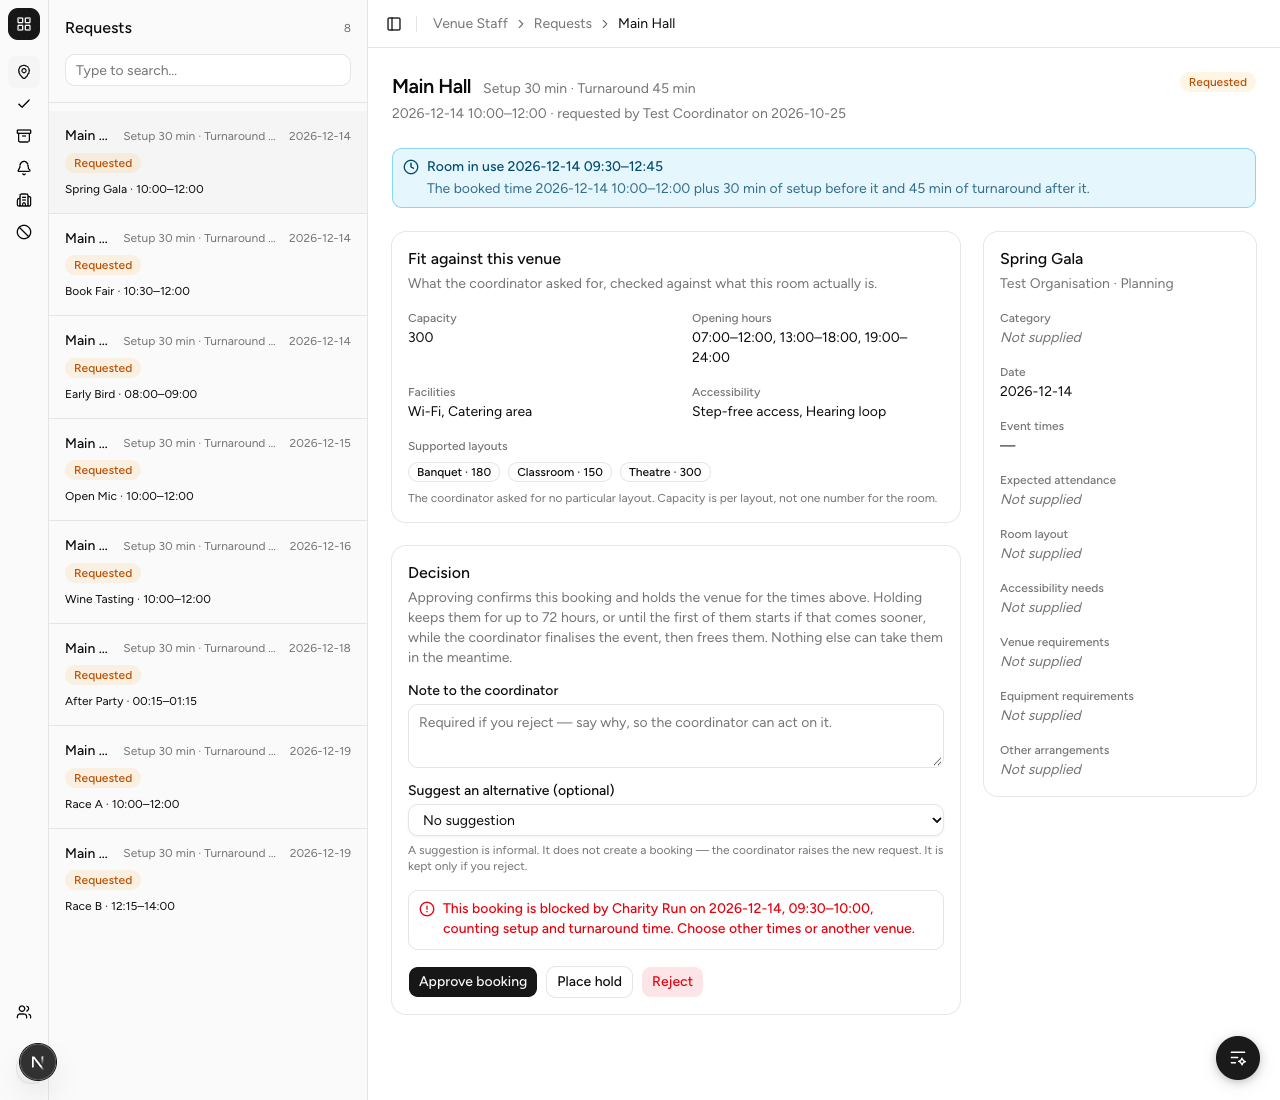
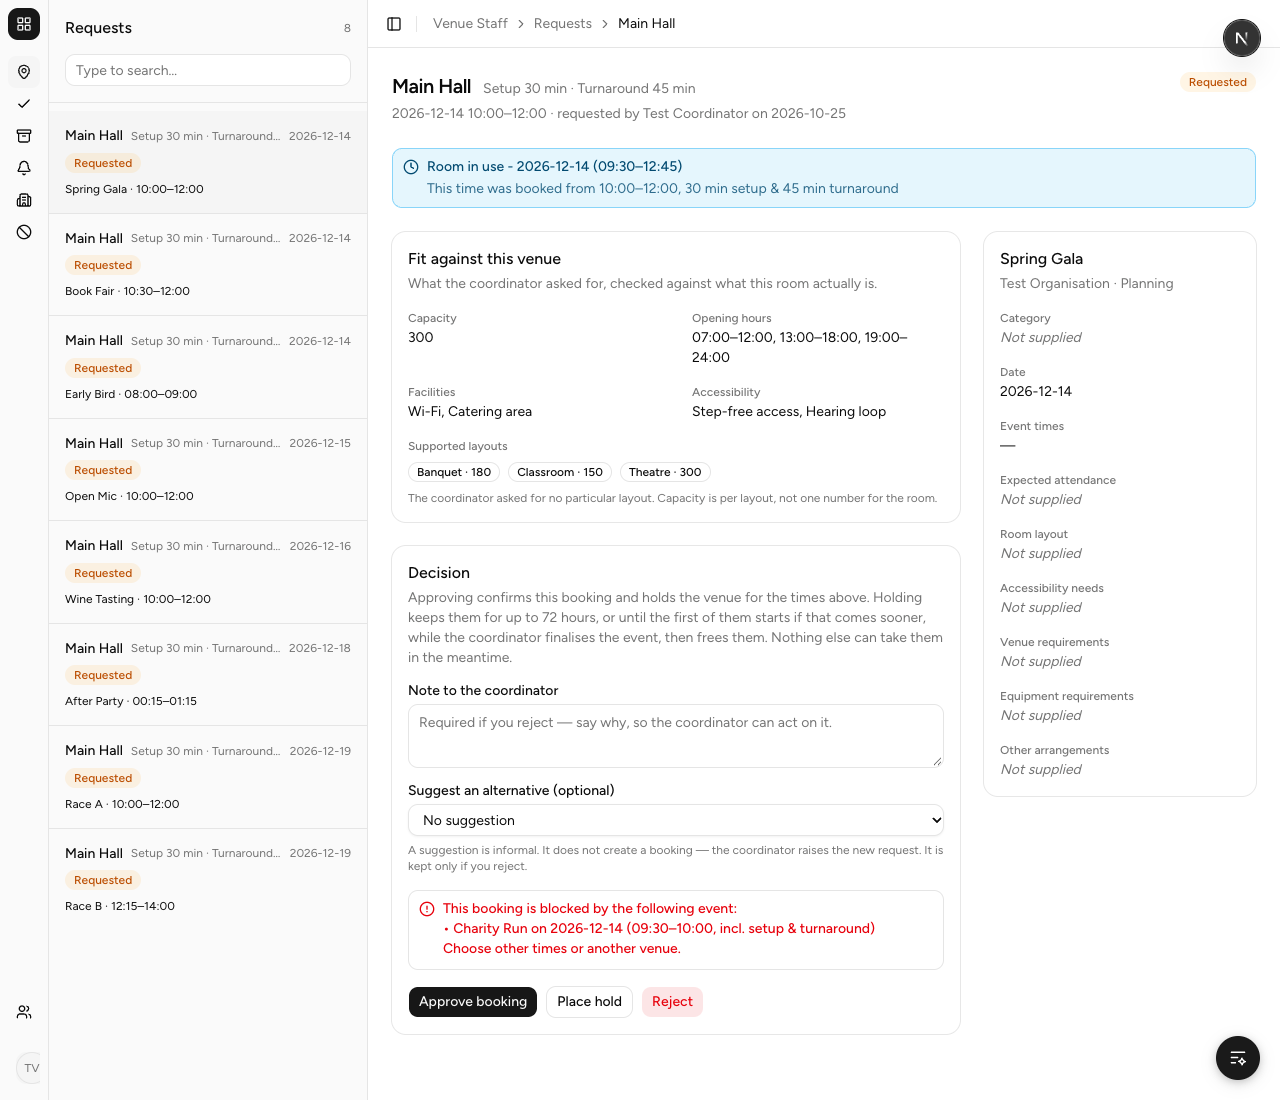
feat(app): list the events in the way, say when one is a hold and when it expires, and shorten the room-in-use box (SPM-19)
The refusal is now a bulleted list of events with their dates and times, a held venue
says it is temporarily reserved and until when, the room-in-use box reads shorter,
and the venue name keeps its place in the list beside the setup and turnaround note.

diff --git a/src/core/domain/padded-window.test.ts b/src/core/domain/padded-window.test.ts
@@ -134,7 +134,7 @@ describe("paddedClashes (SPM-19)", () => {
 
   it("AC1: names the other event and the overlap when a request's setup runs into its turnaround: 10:00 after 07:00-09:15 at Main Hall", () => {
     expect(paddedClashes([{ date: DAY, start: "10:00", end: "12:00" }], [charityRun], MAIN_HALL)).toEqual([
-      { eventName: "Charity Run", date: DAY, start: "09:30", end: "10:00" },
+      { eventName: "Charity Run", date: DAY, start: "09:30", end: "10:00", hold: null },
     ]);
   });
 
@@ -149,8 +149,19 @@ describe("paddedClashes (SPM-19)", () => {
   it("AC6: names each date a clash falls on when the windows run across midnight: a 00:15 request after a 22:00-24:00 Gala", () => {
     const lateEvent = { eventName: "Gala", times: [{ date: DAY, start: "22:00", end: "24:00" }] };
     expect(paddedClashes([{ date: "2026-12-15", start: "00:15", end: "01:15" }], [lateEvent], MAIN_HALL)).toEqual([
-      { eventName: "Gala", date: DAY, start: "23:45", end: "24:00" },
-      { eventName: "Gala", date: "2026-12-15", start: "00:00", end: "00:45" },
+      { eventName: "Gala", date: DAY, start: "23:45", end: "24:00", hold: null },
+      { eventName: "Gala", date: "2026-12-15", start: "00:00", end: "00:45", hold: null },
+    ]);
+  });
+
+  it("AC4: says when the blocking booking is a hold, and when the hold expires", () => {
+    const hold = {
+      eventName: "Quiz Night",
+      times: [{ date: DAY, start: "07:00", end: "09:15" }],
+      hold: { expiresAt: "2026-11-24T06:30:00.000Z" },
+    };
+    expect(paddedClashes([{ date: DAY, start: "10:00", end: "12:00" }], [hold], MAIN_HALL)).toEqual([
+      { eventName: "Quiz Night", date: DAY, start: "09:30", end: "10:00", hold: { expiresAt: "2026-11-24T06:30:00.000Z" } },
     ]);
   });
 
@@ -162,12 +173,60 @@ describe("paddedClashes (SPM-19)", () => {
   });
 });
 
-describe("VenuePaddedClashError (SPM-19 AC1)", () => {
-  it("says which event blocks the booking, naming the date and the times, whether the overlap is in the booked time or only in setup or turnaround", () => {
-    const error = new VenuePaddedClashError([{ eventName: "Charity Run", date: DAY, start: "09:30", end: "10:00" }]);
+describe("VenuePaddedClashError (SPM-19 AC1, AC4)", () => {
+  const SG_EXPIRY = "2026-11-24T06:30:00.000Z"; // 2026-11-24 14:30 in Singapore
+
+  it("lists the event that blocks the booking, with its date and times, whether the overlap is in the booked time or only in setup or turnaround", () => {
+    const error = new VenuePaddedClashError([
+      { eventName: "Charity Run", date: DAY, start: "09:30", end: "10:00", hold: null },
+    ]);
 
     expect(error.message).toBe(
-      "This booking is blocked by Charity Run on 2026-12-14, 09:30–10:00, counting setup and turnaround time. Choose other times or another venue.",
+      [
+        "This booking is blocked by the following event:",
+        "• Charity Run on 2026-12-14 (09:30–10:00, incl. setup & turnaround)",
+        "Choose other times or another venue.",
+      ].join("\n"),
     );
+  });
+
+  it("lists each date an event is in the way on its own line, as when a turnaround runs past midnight", () => {
+    const error = new VenuePaddedClashError([
+      { eventName: "Night Gala", date: "2026-12-17", start: "23:45", end: "24:00", hold: null },
+      { eventName: "Night Gala", date: "2026-12-18", start: "00:00", end: "00:45", hold: null },
+    ]);
+
+    expect(error.message).toBe(
+      [
+        "This booking is blocked by the following events:",
+        "• Night Gala on 2026-12-17 (23:45–24:00, incl. setup & turnaround)",
+        "• Night Gala on 2026-12-18 (00:00–00:45, incl. setup & turnaround)",
+        "Choose other times or another venue.",
+      ].join("\n"),
+    );
+  });
+
+  it("says plainly that a held venue is temporarily reserved, and when the hold expires (Singapore time)", () => {
+    const error = new VenuePaddedClashError([
+      { eventName: "Quiz Night", date: "2026-12-15", start: "09:30", end: "10:00", hold: { expiresAt: SG_EXPIRY } },
+    ]);
+
+    expect(error.message).toBe(
+      [
+        "This booking is blocked by the following event:",
+        "• Quiz Night on 2026-12-15 (09:30–10:00, incl. setup & turnaround): already temporarily reserved (held), the hold expires on 2026-11-24 14:30 (Singapore time)",
+        "Choose other times or another venue.",
+      ].join("\n"),
+    );
+  });
+
+  it("lists a hold and a confirmed booking together", () => {
+    const error = new VenuePaddedClashError([
+      { eventName: "Charity Run", date: DAY, start: "09:30", end: "10:00", hold: null },
+      { eventName: "Quiz Night", date: DAY, start: "12:00", end: "12:45", hold: { expiresAt: SG_EXPIRY } },
+    ]);
+
+    expect(error.message).toContain("• Charity Run on 2026-12-14 (09:30–10:00, incl. setup & turnaround)\n");
+    expect(error.message).toContain("• Quiz Night on 2026-12-14 (12:00–12:45, incl. setup & turnaround): already temporarily reserved (held)");
   });
 });

diff --git a/src/core/domain/errors.ts b/src/core/domain/errors.ts
@@ -442,6 +442,40 @@ export class BookingRoomLayoutNotChangeableError extends DomainError {
   }
 }
 
+type Clash = TimeOnDate & {
+  readonly eventName: string;
+  readonly hold: { readonly expiresAt: string | null } | null;
+};
+
+/**
+ * What Venue Staff read: a list with one line for each date an event is in the way on, naming the
+ * times. A held venue says so, and when the hold expires.
+ */
+function lines(clashes: readonly Clash[]): string[] {
+  return clashes.map(({ eventName, date, start, end, hold }) => {
+    const base = `• ${eventName} on ${date} (${start}–${end}, incl. setup & turnaround)`;
+    if (hold === null) return base;
+    const expires =
+      hold.expiresAt === null ? "" : `, the hold expires on ${singaporeTime(hold.expiresAt)} (Singapore time)`;
+    return `${base}: already temporarily reserved (held)${expires}`;
+  });
+}
+
+/** An instant as `2026-11-24 14:30` in Singapore time, whatever zone the server runs in. */
+function singaporeTime(iso: string): string {
+  const parts = new Intl.DateTimeFormat("en-CA", {
+    timeZone: "Asia/Singapore",
+    year: "numeric",
+    month: "2-digit",
+    day: "2-digit",
+    hour: "2-digit",
+    minute: "2-digit",
+    hourCycle: "h23",
+  }).formatToParts(new Date(iso));
+  const part = (type: string) => parts.find((each) => each.type === type)?.value ?? "";
+  return `${part("year")}-${part("month")}-${part("day")} ${part("hour")}:${part("minute")}`;
+}
+
 /** A date with a start and end time, as the booking refusals name them. */
 type TimeOnDate = { readonly date: string; readonly start: string; readonly end: string };
 
@@ -469,11 +503,21 @@ export class VenueSlotUnavailableError extends DomainError {
 export class VenuePaddedClashError extends DomainError {
   readonly code = "venue_padded_clash";
 
-  constructor(readonly clashes: ReadonlyArray<TimeOnDate & { readonly eventName: string }>) {
+  constructor(
+    readonly clashes: ReadonlyArray<
+      TimeOnDate & {
+        readonly eventName: string;
+        /** Set when the booking in the way is a Tentative Hold; null for a Confirmed one. */
+        readonly hold: { readonly expiresAt: string | null } | null;
+      }
+    >,
+  ) {
     super(
-      `This booking is blocked by ${clashes
-        .map(({ eventName, date, start, end }) => `${eventName} on ${date}, ${start}–${end}`)
-        .join("; ")}, counting setup and turnaround time. Choose other times or another venue.`,
+      [
+        `This booking is blocked by the following ${clashes.length === 1 ? "event" : "events"}:`,
+        ...lines(clashes),
+        "Choose other times or another venue.",
+      ].join("\n"),
     );
   }
 }

diff --git a/src/core/domain/padded-window.ts b/src/core/domain/padded-window.ts
@@ -52,6 +52,8 @@ export interface PaddedClash {
   readonly date: string;
   readonly start: string;
   readonly end: string;
+  /** Set when the booking in the way is a Tentative Hold: when it expires (null: no expiry). */
+  readonly hold: { readonly expiresAt: string | null } | null;
 }
 
 /**
@@ -62,18 +64,25 @@ export interface PaddedClash {
  */
 export function paddedClashes(
   requested: readonly TimeRangeOnDate[],
-  others: ReadonlyArray<{ readonly eventName: string; readonly times: readonly TimeRangeOnDate[] }>,
+  others: ReadonlyArray<{
+    readonly eventName: string;
+    readonly times: readonly TimeRangeOnDate[];
+    /** Set for a Tentative Hold, so the refusal can say so and when it expires. */
+    readonly hold?: { readonly expiresAt: string | null };
+  }>,
   buffers: Buffers,
 ): PaddedClash[] {
   const mine = requested.flatMap((time) => paddedWindows(time, buffers));
   return others
-    .flatMap(({ eventName, times }) =>
+    .flatMap(({ eventName, times, hold }) =>
       times.flatMap((time) => paddedWindows(time, buffers)).flatMap((theirs) =>
         mine.flatMap((window) => {
           if (window.date !== theirs.date) return [];
           const start = Math.max(minutes(window).start, minutes(theirs).start);
           const end = Math.min(minutes(window).end, minutes(theirs).end);
-          return start < end ? [{ eventName, date: window.date, start: fromMinutes(start), end: fromMinutes(end) }] : [];
+          return start < end
+            ? [{ eventName, date: window.date, start: fromMinutes(start), end: fromMinutes(end), hold: hold ?? null }]
+            : [];
         }),
       ),
     )

diff --git a/src/core/use-cases/decide-booking-request.test.ts b/src/core/use-cases/decide-booking-request.test.ts
@@ -686,7 +686,7 @@ describe("DecideBookingRequestUseCase, setup and turnaround (SPM-19)", () => {
 
     expect(error).toBeInstanceOf(VenuePaddedClashError);
     expect((error as VenuePaddedClashError).clashes).toEqual([
-      { eventName: "Charity Run", date: DAY, start: "09:30", end: "10:00" },
+      { eventName: "Charity Run", date: DAY, start: "09:30", end: "10:00", hold: null },
     ]);
     expect(reviews.all()[0]?.status).toBe("Requested");
   });
@@ -714,15 +714,18 @@ describe("DecideBookingRequestUseCase, setup and turnaround (SPM-19)", () => {
     expect(reviews.all()[0]?.status).toBe("Requested");
   });
 
-  it("AC4: a Tentative Hold in the way is padded like a Confirmed booking", async () => {
+  it("AC4: a Tentative Hold in the way is padded like a Confirmed booking, and the refusal says it is held", async () => {
     const { useCase } = atMainHall(
       { status: "Tentative Hold", start: "07:00", end: "09:15" },
       { start: "10:00", end: "12:00" },
     );
 
-    await expect(
-      useCase.execute({ bookingId: "b1", userAccountId: STAFF, decision: "approve" }),
-    ).rejects.toBeInstanceOf(VenuePaddedClashError);
+    const error = await useCase
+      .execute({ bookingId: "b1", userAccountId: STAFF, decision: "approve" })
+      .catch((e: unknown) => e);
+
+    expect(error).toBeInstanceOf(VenuePaddedClashError);
+    expect((error as VenuePaddedClashError).message).toContain("• Charity Run on 2026-12-14 (09:30–10:00, incl. setup & turnaround): already temporarily reserved (held)");
   });
 
   it("AC5: a Rejected booking in the way does not block", async () => {

diff --git a/src/adapters/outbound/supabase/supabase-booking-review-repository.test.ts b/src/adapters/outbound/supabase/supabase-booking-review-repository.test.ts
@@ -258,8 +258,30 @@ describe("SupabaseBookingReviewRepository, padded clashes (SPM-19)", () => {
 
     expect(error).toBeInstanceOf(VenuePaddedClashError);
     expect((error as VenuePaddedClashError).clashes).toEqual([
-      { eventName: "Charity Run", date: "2026-12-14", start: "09:30", end: "10:00" },
+      { eventName: "Charity Run", date: "2026-12-14", start: "09:30", end: "10:00", hold: null },
     ]);
+  });
+
+  it("AC4: carries the hold, and when it expires, when the booking in the way is a Tentative Hold", async () => {
+    const { client } = fakeClient({
+      venue_staff_decide_booking: {
+        data: null,
+        error: {
+          code: "CS082",
+          message: "Venue 5 has another booking within this booking's setup or turnaround time",
+          details: JSON.stringify([
+            { event: "Quiz Night", date: "2026-12-15", start: "09:30", end: "10:00", holdExpiresAt: "2026-11-24T06:30:00+00:00" },
+          ]),
+        },
+      },
+    });
+
+    const error = await new SupabaseBookingReviewRepository(client).decide(APPROVED).catch((e: unknown) => e);
+
+    expect((error as VenuePaddedClashError).clashes).toEqual([
+      { eventName: "Quiz Night", date: "2026-12-15", start: "09:30", end: "10:00", hold: { expiresAt: "2026-11-24T06:30:00+00:00" } },
+    ]);
+    expect((error as VenuePaddedClashError).message).toContain("already temporarily reserved (held), the hold expires on 2026-11-24 14:30 (Singapore time)");
   });
 
   it("AC3: maps it the same way when placing a hold", async () => {

diff --git a/src/app/staff/slot-label.test.ts b/src/app/staff/slot-label.test.ts
@@ -18,7 +18,7 @@ describe("roomInUse (SPM-19)", () => {
 
   it("names the time the room is used with setup and turnaround, and each value, for Main Hall 30 and 45", () => {
     expect(roomInUse(times, { setupMinutes: 30, turnaroundMinutes: 45 })).toEqual({
-      inUse: "2026-12-14 09:30–12:45",
+      windows: [{ date: "2026-12-14", start: "09:30", end: "12:45" }],
       setup: 30,
       turnaround: 45,
     });
@@ -26,8 +26,11 @@ describe("roomInUse (SPM-19)", () => {
 
   it("splits a window that runs past midnight by date", () => {
     expect(
-      roomInUse([{ date: "2026-12-17", start: "22:00", end: "24:00" }], { setupMinutes: 30, turnaroundMinutes: 45 })?.inUse,
-    ).toBe("2026-12-17 21:30–24:00, 2026-12-18 00:00–00:45");
+      roomInUse([{ date: "2026-12-17", start: "22:00", end: "24:00" }], { setupMinutes: 30, turnaroundMinutes: 45 })?.windows,
+    ).toEqual([
+      { date: "2026-12-17", start: "21:30", end: "24:00" },
+      { date: "2026-12-18", start: "00:00", end: "00:45" },
+    ]);
   });
 
   it("says nothing for a venue with none set, or 0 and 0, since nothing is added", () => {

diff --git a/src/app/staff/slot-label.ts b/src/app/staff/slot-label.ts
@@ -18,17 +18,17 @@ export function formatTimes(times: readonly TimeRangeOnDate[]): string {
 
 /**
  * SPM-19: the time a booking really takes from its venue, setup and turnaround included, e.g.
- * `{ inUse: "2026-12-14 09:30–12:45", setup: 30, turnaround: 45 }`. Null when the venue adds
+ * `{ windows: [{ date: "2026-12-14", start: "09:30", end: "12:45" }], setup: 30, turnaround: 45 }`. Null when the venue adds
  * nothing (none set, or 0 and 0), so there is nothing more to say.
  */
 export function roomInUse(
   times: readonly TimeRangeOnDate[],
   venue: Partial<VenueBuffers> | null,
-): { readonly inUse: string; readonly setup: number; readonly turnaround: number } | null {
+): { readonly windows: TimeRangeOnDate[]; readonly setup: number; readonly turnaround: number } | null {
   const { setup, turnaround } = bufferMinutes(venue ?? {});
   if (setup === 0 && turnaround === 0) return null;
   const windows = times.flatMap((time) => paddedWindows(time, { setup, turnaround }));
-  return { inUse: formatTimes(windows), setup, turnaround };
+  return { windows, setup, turnaround };
 }
 
 /**

diff --git a/src/app/staff/venue/booking-detail.tsx b/src/app/staff/venue/booking-detail.tsx
@@ -131,10 +131,16 @@ export async function BookingDetail({
           className="border-sky-500/40 bg-sky-500/10 text-sky-900 dark:text-sky-200"
         >
           <ClockIcon />
-          <AlertTitle>Room in use {occupied.inUse}</AlertTitle>
+          <AlertTitle>
+            Room in use -{" "}
+            {occupied.windows.map(({ date, start, end }) => `${date} (${start}–${end})`).join(", ")}
+          </AlertTitle>
           <AlertDescription className="text-sky-900/80 dark:text-sky-200/80">
-            The booked time {times} plus {occupied.setup} min of setup before it and{" "}
-            {occupied.turnaround} min of turnaround after it.
+            This time was booked from{" "}
+            {booking.times.length === 1
+              ? `${booking.times[0].start}–${booking.times[0].end}`
+              : times}
+            , {occupied.setup} min setup &amp; {occupied.turnaround} min turnaround
           </AlertDescription>
         </Alert>
       )}

diff --git a/src/adapters/outbound/in-memory/in-memory-booking-review-repository.ts b/src/adapters/outbound/in-memory/in-memory-booking-review-repository.ts
@@ -78,7 +78,11 @@ export class InMemoryBookingReviewRepository implements BookingReviewRepository 
               this.now(),
             ),
         )
-        .map((other) => ({ eventName: other.event.name, times: other.times }));
+        .map((other) => ({
+          eventName: other.event.name,
+          times: other.times,
+          ...(other.status === "Tentative Hold" ? { hold: { expiresAt: other.holdExpiresAt } } : {}),
+        }));
       const padded = paddedClashes(row.times, inTheWay, this.venueBuffers[row.venueId] ?? { setup: 0, turnaround: 0 });
       if (padded.length > 0) {
         throw new VenuePaddedClashError(padded);

diff --git a/src/adapters/outbound/supabase/supabase-booking-review-repository.ts b/src/adapters/outbound/supabase/supabase-booking-review-repository.ts
@@ -175,6 +175,14 @@ function toPaddedClashes(details: string | null | undefined) {
     date: string;
     start: string;
     end: string;
+    /** Set when the booking in the way is a Tentative Hold: when it expires, or null. */
+    holdExpiresAt?: string | null;
   }>;
-  return rows.map(({ event, date, start, end }) => ({ eventName: event, date, start, end }));
+  return rows.map(({ event, date, start, end, holdExpiresAt }) => ({
+    eventName: event,
+    date,
+    start,
+    end,
+    hold: holdExpiresAt === undefined ? null : { expiresAt: holdExpiresAt },
+  }));
 }

diff --git a/src/components/queue-list.tsx b/src/components/queue-list.tsx
@@ -39,7 +39,11 @@ export function QueueList({
             }`}
           >
             <div className="flex w-full min-w-0 items-center gap-2">
-              <span className="min-w-0 truncate font-medium">{item.title}</span>
+              <span
+                className={`font-medium ${item.titleNote ? "shrink-0" : "min-w-0 truncate"}`}
+              >
+                {item.title}
+              </span>
               {item.titleNote ? (
                 <span className="text-muted-foreground min-w-0 truncate text-xs">
                   {item.titleNote}

diff --git a/src/app/staff/venue/[id]/decision-form.tsx b/src/app/staff/venue/[id]/decision-form.tsx
@@ -74,7 +74,7 @@ export function DecisionForm({
       {state.status === "error" ? (
         <Alert variant="destructive">
           <CircleAlert aria-hidden />
-          <AlertTitle>{state.message}</AlertTitle>
+          <AlertTitle className="whitespace-pre-line">{state.message}</AlertTitle>
         </Alert>
       ) : null}
 
